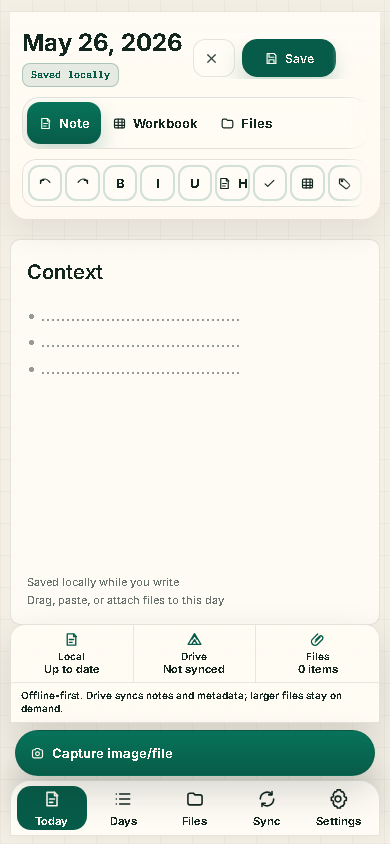
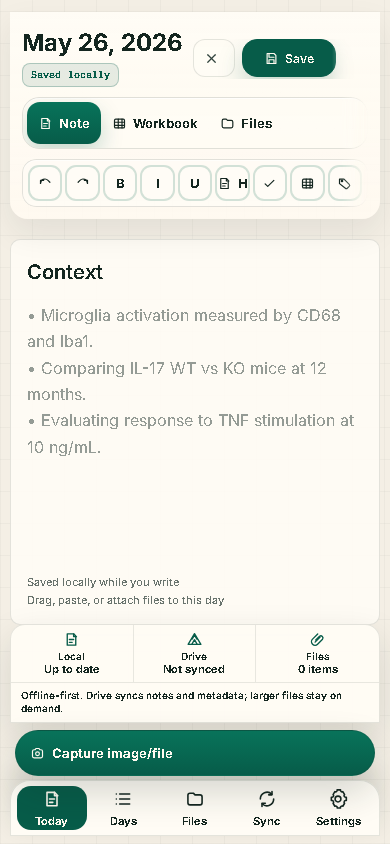
Polish Lab Notebook guide placeholders

diff --git a/web/src/data/sampleData.ts b/web/src/data/sampleData.ts
@@ -67,6 +67,11 @@ const seedYesterdayBucket = `${seedYesterday.getFullYear()}-${String(seedYesterd
 const dateTitleFormat = new Intl.DateTimeFormat('en-US', { month: 'short', day: 'numeric', year: 'numeric' })
 const seedTitle = dateTitleFormat.format(seedNow)
 const seedYesterdayTitle = dateTitleFormat.format(seedYesterday)
+const seedContextGuide = [
+  '• Microglia activation measured by CD68 and Iba1.',
+  '• Comparing IL-17 WT vs KO mice at 12 months.',
+  '• Evaluating response to TNF stimulation at 10 ng/mL.',
+].join('\n')
 
 const experiments: Experiment[] = [
   {
@@ -95,7 +100,7 @@ const entries: Entry[] = [
         id: 'b-context',
         type: 'paragraph',
         text: '',
-        guide: '• ........................................\n• ........................................\n• ........................................',
+        guide: seedContextGuide,
         updatedAt: seedTimestamp,
         updatedBy: 'me',
       },
@@ -125,7 +130,7 @@ const entries: Entry[] = [
         id: 'b-y-context',
         type: 'paragraph',
         text: '',
-        guide: '• ........................................\n• ........................................\n• ........................................',
+        guide: seedContextGuide,
         updatedAt: seedYesterdayTimestamp,
         updatedBy: 'me',
       },

diff --git a/web/tests/app.spec.ts b/web/tests/app.spec.ts
@@ -319,7 +319,7 @@ test.describe('Lab note taking app', () => {
     await page.getByTestId('today-entry').click()
     await ensureEditMode(page)
 
-    const guideText = '• ........................................'
+    const guideText = '• Microglia activation measured by CD68 and Iba1.'
     const guideLocator = page.getByText(guideText)
     await expect(guideLocator).toBeVisible()
 
@@ -334,7 +334,7 @@ test.describe('Lab note taking app', () => {
     await page.getByTestId('today-entry').click()
     await ensureEditMode(page)
 
-    const guideText = '• ........................................'
+    const guideText = '• Microglia activation measured by CD68 and Iba1.'
 
     await focusBlockById(page, 'b-context')
     await page.keyboard.press('Enter')

diff --git a/web/src/App.tsx b/web/src/App.tsx
@@ -751,7 +751,11 @@ const LOCKED_TEMPLATE_SECTION_LABELS = new Set([
   'Results',
 ])
 const LEGACY_DAILY_SECTION_LABELS = new Set(['Setup', 'Procedure', 'Observations', 'Next steps'])
-const DAY_CONTEXT_GUIDE = '• ........................................\n• ........................................\n• ........................................'
+const DAY_CONTEXT_GUIDE = [
+  '• Microglia activation measured by CD68 and Iba1.',
+  '• Comparing IL-17 WT vs KO mice at 12 months.',
+  '• Evaluating response to TNF stimulation at 10 ng/mL.',
+].join('\n')
 
 const DEFAULT_PROJECT_TAGS = [
   'IL-17 WT KO aging project',
